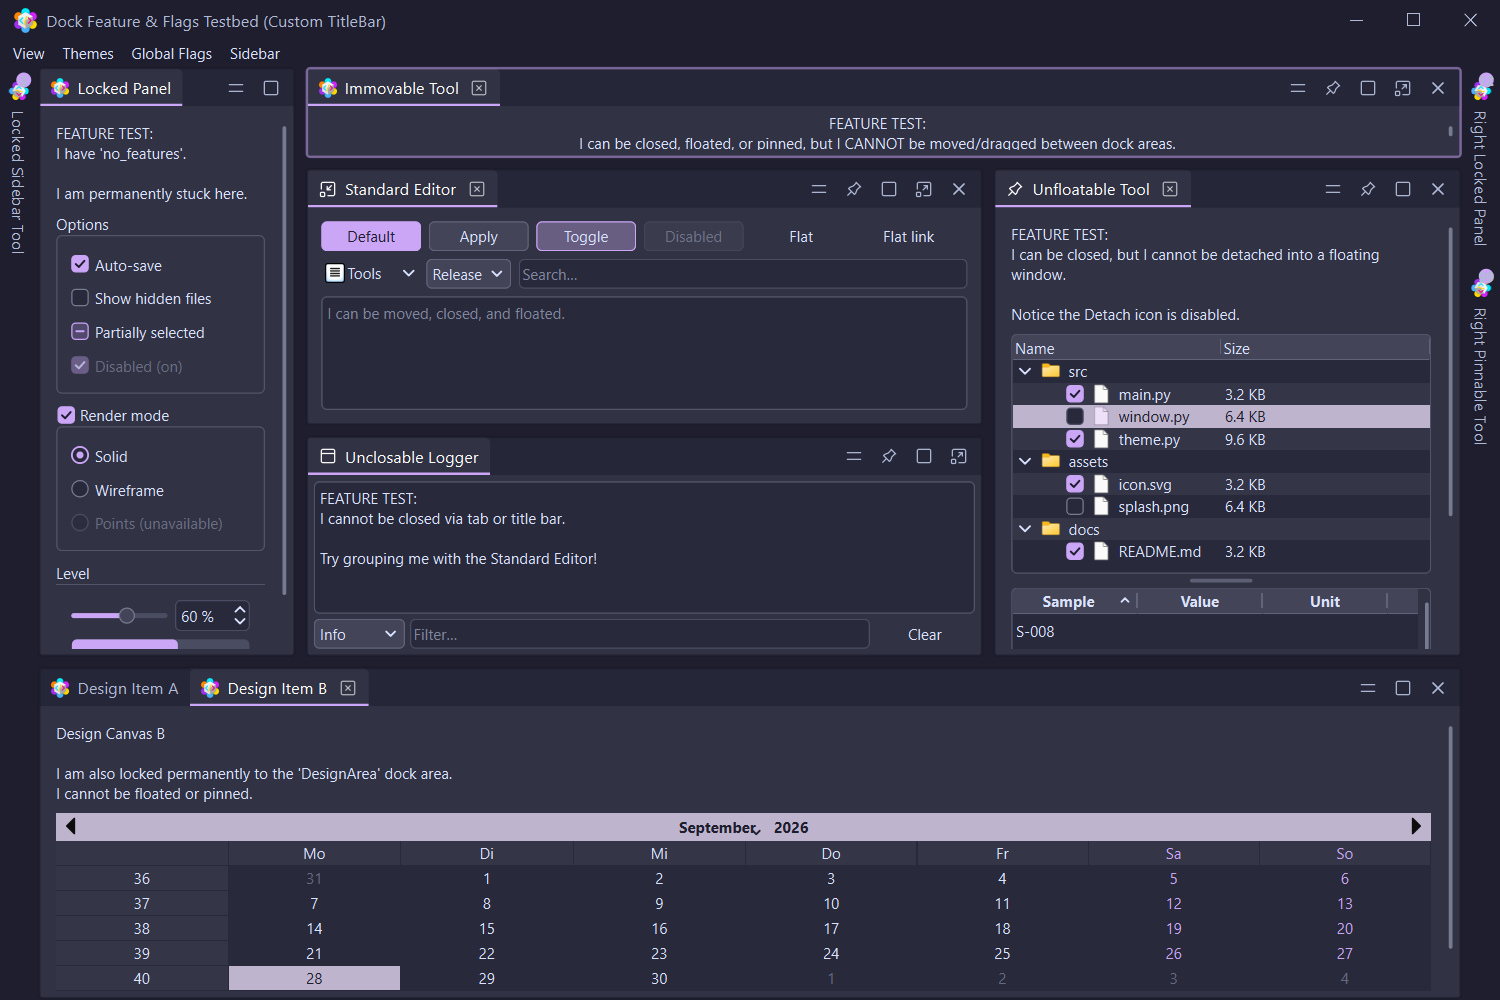
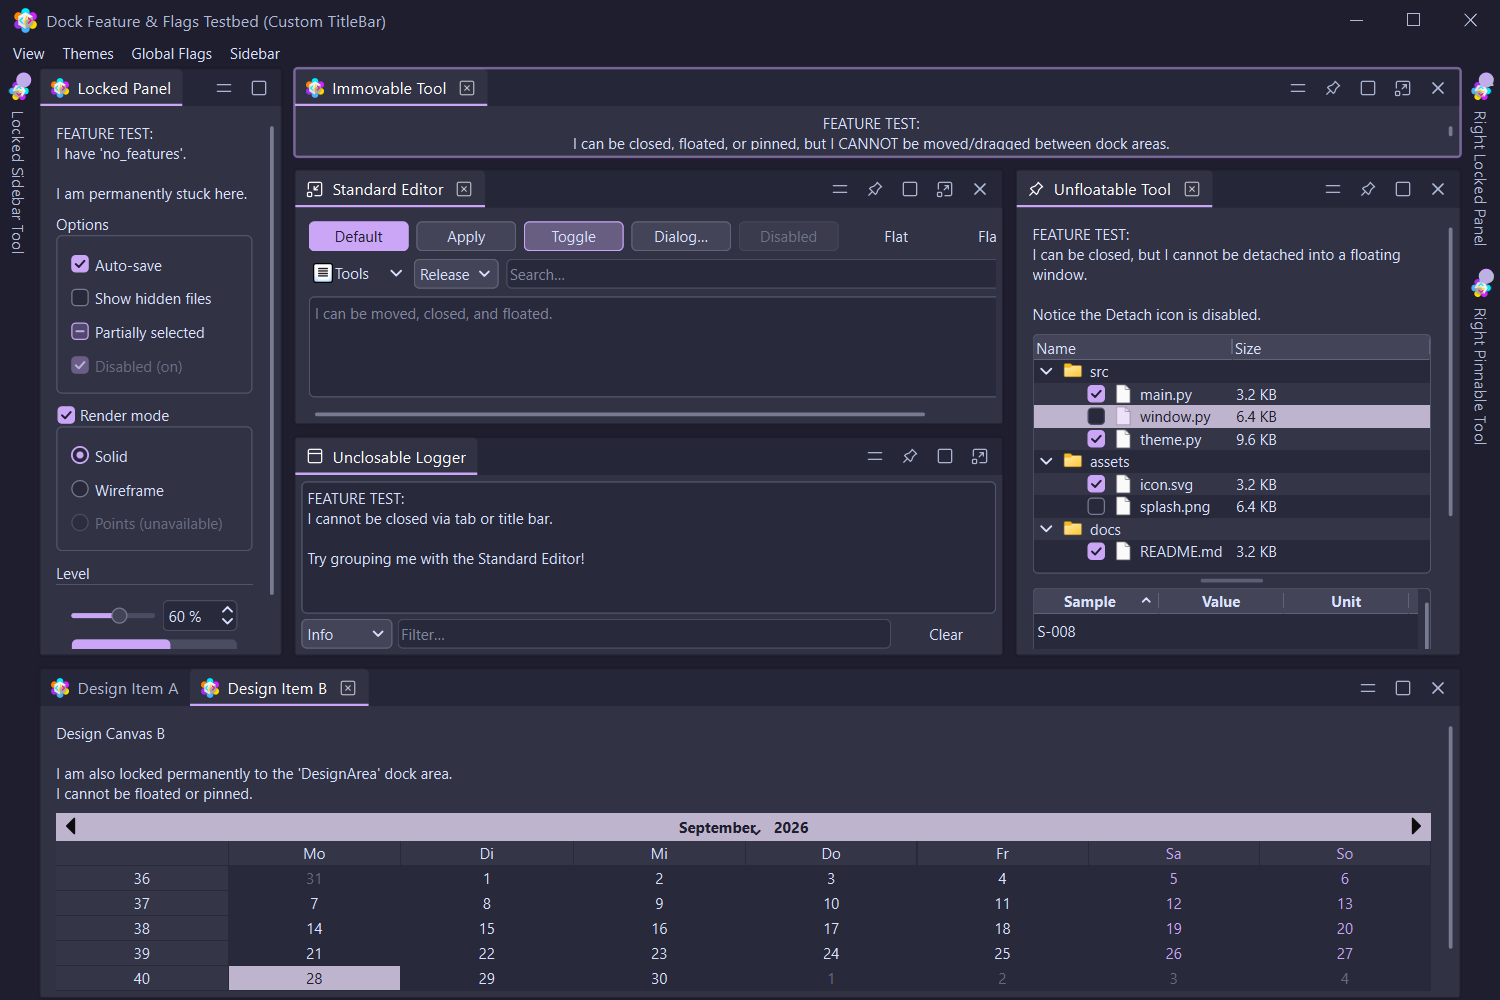
chore(release): 0.9.0
Dialog plan D4: docs/theming_and_geometry.md §14 "Title Bars",
QUICK_REFERENCE "Themed Dialogs", README feature line,
screenshot_themes.py captures dialog_<theme>.png, lace.dialogs
exports StandardButton. README grid retaken with the demo's
"Dialog…" button. Plan marked done.

diff --git a/dev_smoke/screenshot_themes.py b/dev_smoke/screenshot_themes.py
@@ -10,6 +10,7 @@ Special states (screen grabs show real desktop layering/shadows):
   composite_<theme>.png - floating window in FRONT of the main window
   sidebar_<theme>.png   - right sidebar expanded (a widget pinned to it)
   hover_<theme>.png     - a dock area actively hovered (drop overlay + preview)
+  dialog_<theme>.png    - a lace.dialogs message box over the main window
 """
 import sys, os, time, random, logging, argparse
 sys.path.insert(0, os.path.dirname(os.path.dirname(os.path.abspath(__file__))))
@@ -46,6 +47,7 @@ THEMES = theme_sets.resolve(args.themes)
 COMPOSITE_THEMES = ["cyberpunk_neon", "kilim_light_neo"]
 SIDEBAR_THEMES = ["kilim_dark", "slate_amber"]
 HOVER_THEMES = ["cyberpunk_neon", "kilim_midnight"]
+DIALOG_THEMES = ["cyberpunk_neon", "light"]
 
 OUT = args.out or os.path.join(
     os.path.dirname(os.path.dirname(os.path.abspath(__file__))), "screenshots")
@@ -199,6 +201,27 @@ for theme in HOVER_THEMES:
     settle(400)
     save(screen_grab([win]), f"hover_{theme}.png")
     overlay.hide_overlay()
+    app.processEvents()
+    settle(200)
+
+# ═══ Part E: a lace.dialogs message box over the main window ═════════
+from lace import dialogs
+
+for theme in DIALOG_THEMES:
+    print(f"[dialog] {theme}", flush=True)
+    set_theme(theme)
+
+    def grab_dialog(theme=theme):
+        settle(500)
+        save(screen_grab([win]), f"dialog_{theme}.png")
+        QApplication.activeModalWidget().reject()
+
+    QTimer.singleShot(0, grab_dialog)
+    dialogs.question(
+        win, "Close project",
+        "Save changes to <b>layout.json</b> before closing?",
+        dialogs.StandardButton.Save | dialogs.StandardButton.Discard
+        | dialogs.StandardButton.Cancel)
     app.processEvents()
     settle(200)
 

diff --git a/lace/dialogs.py b/lace/dialogs.py
@@ -47,6 +47,8 @@ from PySide6.QtWidgets import (QApplication, QColorDialog, QDialog,
 
 _frameless_default = True
 
+#: ``QMessageBox.StandardButton``, so callers can compare results without
+#: importing it: ``dialogs.question(...) == dialogs.StandardButton.Yes``.
 StandardButton = QMessageBox.StandardButton
 _Buttons = Union[QMessageBox.StandardButton, QDialogButtonBox.StandardButton, int]
 
@@ -536,6 +538,7 @@ def get_existing_directory(parent=None, caption: str = "", dir: str = "",
 
 __all__ = [
     "MESSAGE_ICONS",
+    "StandardButton",
     "about",
     "critical",
     "default_frameless",

diff --git a/lace/__init__.py b/lace/__init__.py
@@ -14,7 +14,7 @@ Public API is imported explicitly at the top level for discoverability
 and IDE/mypy compatibility.
 """
 
-__version__ = "0.8.5"
+__version__ = "0.9.0"
 
 # ---------------------------------------------------------------------------
 # Core Classes

diff --git a/docs/theming_and_geometry.md b/docs/theming_and_geometry.md
@@ -718,3 +718,77 @@ corner radius are `CORE`'s.
 |---|---|---|---|
 | `frame_color`, `overlay_color` | *derived* | — | drop-area preview outline and fill |
 | `background_color`, `arrow_color`, `shadow_color` | *derived* | — | drop-target cross buttons, their arrows and shadow |
+
+
+---
+
+## 14. Title Bars
+
+Every window an app shows can carry the theme's title bar. There are two
+kinds of title bar, and both read their colours from one function,
+`lace.title_bar_colors()`, so they cannot drift apart.
+
+### The tokens
+
+| Part | Token | Used by |
+|---|---|---|
+| Background | `SIDEBAR.bg_color`, else `TITLE_BAR.bg_normal` | both |
+| Title text | `TITLE_BAR.text_normal` | both |
+| Inactive title text | the title text at 60 % over the background (`INACTIVE_TEXT_ALPHA`) | native frame |
+| Outline | `CORE.border_color` when `CORE.border_width` > 0 and it isn't transparent; otherwise the system's own | native frame |
+| Buttons | `TITLE_BAR.button_color`, `button_hover_bg`, `button_disable_clr`, `button_size`, `button_icon_size`, `button_corner_radius` | custom bar |
+| Font | `TITLE_BAR.font_family`, `font_size`, `font_weight`, `font_italic`, `font_underline` | custom bar |
+
+The custom bar's close button keeps the system red on hover.
+
+### Custom title bars (frameless windows)
+
+`FramelessLaceMainWindow`, the frameless floating containers and
+`FramelessLaceDialog` draw their own bar (`LaceStandardTitleBar`), styled by a
+`FramelessTitleBarStyler` that follows theme switches live.
+
+For dialogs, use `FramelessLaceDialog` directly or the `lace.dialogs` helpers,
+which mirror Qt's static dialog functions:
+
+```python
+from lace import dialogs
+from lace.frameless_dialog import FramelessLaceDialog
+
+if dialogs.question(self, "Close", "Discard changes?") == dialogs.StandardButton.Yes:
+    ...
+name, ok = dialogs.get_text(self, "Rename", "Name:", text="Layer 3")
+
+dlg = FramelessLaceDialog(self, buttons="close", resizable=False)
+dlg.setWindowTitle("New layer")
+dlg.contentLayout().addWidget(my_form)   # don't call dlg.setLayout()
+dlg.exec()
+```
+
+### System title bars (native frames)
+
+Windows that keep the OS frame (`QMessageBox`, `QInputDialog`, your own
+`QDialog`s, tool windows, the native floating container) get the theme's
+colours through the window manager. `DockManager` turns this on for the whole
+application (`install_native_frame_theme()` does it without one). It reapplies
+on every theme switch, and dims the title text of inactive windows.
+
+| Platform | System title bar |
+|---|---|
+| Windows 11 | caption colour, title text (dimmed while inactive) and outline from the theme |
+| Windows 10 | the theme's light or dark mode only; the caption stays black or white |
+| macOS, Linux | the window manager's frame, unchanged |
+
+### What stays out of reach
+
+The OS file and print dialogs (`QFileDialog` in native mode, the default on
+Windows and macOS) are OS windows with no Qt widget behind them. They follow
+the system's light/dark setting, not the theme. To theme a file dialog, use Qt's
+own: `dialogs.get_open_file_name(..., native=False)`.
+
+### Opting out
+
+| To | Use |
+|---|---|
+| leave every system frame alone | `DockManager(window, native_frames=False)` |
+| leave one window's system frame alone | `window.setProperty("laceNativeFrame", False)` |
+| make the `lace.dialogs` helpers open plain Qt dialogs | `dialogs.set_default_frameless(False)` |

diff --git a/docs/QUICK_REFERENCE.md b/docs/QUICK_REFERENCE.md
@@ -2,7 +2,7 @@
 
 **Advanced PySide6 Docking System** — your 5-minute guide to getting started.
 
-**Version:** 0.8.5
+**Version:** 0.9.0
 
 ---
 
@@ -721,6 +721,48 @@ a manual escape hatch. See `docs/frameless-webengine-findings.md`.
 # (DockFlags.chromeless_float hides the custom title bar entirely)
 dock_manager.config_flags |= DockFlags.chromeless_float
 ```
+
+### Themed Dialogs
+
+`lace.dialogs` mirrors Qt's static dialog functions: same arguments, same
+return values, but each opens a frameless dialog with the theme's title bar.
+
+```python
+from lace import dialogs
+
+dialogs.information(self, "Saved", "Layout saved.")
+if dialogs.question(self, "Close", "Discard changes?") == dialogs.StandardButton.Yes:
+    ...
+name, ok = dialogs.get_text(self, "Rename", "Name:", text="Layer 3")
+color = dialogs.get_color(QColor("red"), self, "Accent")       # invalid on cancel
+path, _ = dialogs.get_open_file_name(self, "Open", "", "JSON (*.json)")  # OS dialog
+path, _ = dialogs.get_open_file_name(self, "Open", "", "JSON (*.json)", native=False)
+```
+
+| Helper | Qt counterpart | Returns |
+|---|---|---|
+| `information`, `question`, `warning`, `critical`, `message(..., icon=)` | `QMessageBox` statics | `QMessageBox.StandardButton` |
+| `about` | `QMessageBox.about` | `None` |
+| `get_text`, `get_multi_line_text`, `get_item`, `get_int`, `get_double` | `QInputDialog` statics | `(value, ok)` |
+| `get_color(initial, parent, title, options)` | `QColorDialog.getColor` | `QColor` (invalid on cancel) |
+| `get_open_file_name`, `get_open_file_names`, `get_save_file_name`, `get_existing_directory` | `QFileDialog` statics; `native=False` for the themed Qt dialog | as Qt |
+
+For your own dialog, subclass or use `FramelessLaceDialog`:
+
+```python
+from lace.frameless_dialog import FramelessLaceDialog
+
+dlg = FramelessLaceDialog(self, buttons="close", resizable=False)  # or "min_close", "all"
+dlg.setWindowTitle("New layer")
+dlg.contentLayout().addWidget(my_form)
+if dlg.exec() == FramelessLaceDialog.DialogCode.Accepted:
+    ...
+```
+
+`dialogs.set_default_frameless(False)` sends every helper back to plain Qt.
+Dialogs that keep the system frame still get the theme's title-bar colours on
+Windows 11 (light/dark only on Windows 10); see `docs/theming_and_geometry.md`
+§14.
 
 ---
 

diff --git a/README.md b/README.md
@@ -2,7 +2,7 @@
 
 **Advanced docking system for PySide6** — a feature-rich, themeable widget layout framework for building professional Qt desktop applications in Python.
 
-**Version:** 0.8.5
+**Version:** 0.9.0
 
 [![PyPI](https://img.shields.io/pypi/v/lace-dock.svg)](https://pypi.org/project/lace-dock/)
 [![License](https://img.shields.io/pypi/l/lace-dock.svg)](https://pypi.org/project/lace-dock/)
@@ -82,6 +82,7 @@
 - **Frameless windows** — Custom (PySideSix-Frameless-Window) title bars for the main window and floating containers with a synchronous double-click-to-maximize, DWM shadow, and resize borders; GL children (`QWebEngineView`, `QOpenGLWidget`) auto-heal the native chrome via `WinIdChange` (`ensure_frameless_chrome()`)
 - **Configurable custom title bars** — Set different title-bar classes for the main window and floating dock containers (`title_bar=` constructor arg, live `DockManager.main_title_bar` / `floating_title_bar`); embed menus, search fields, or any widget directly in the frameless chrome — `LaceStandardTitleBar` already vetoes drags from interactive children, paints the theme background, and anchors inserts, so subclasses only add widgets
 - **Chromeless floating windows** — Optional bare floating surfaces without any title bar
+- **Themed dialogs** — `FramelessLaceDialog` and the `lace.dialogs` helpers (message boxes, input, colour and file dialogs, same arguments and results as Qt's) carry the main window's title bar; dialogs that keep the system frame get the theme's caption colour on Windows 11 and its light/dark mode on Windows 10
 
 ---
 
@@ -188,7 +189,7 @@ for the full API.
 
 ## Screenshots
 
-![Lace frameless main window across 12 themes](https://raw.githubusercontent.com/opticsWolf/Lace/main/screenshots/main_themes_grid.png?v=0.8.5)
+![Lace frameless main window across 12 themes](https://raw.githubusercontent.com/opticsWolf/Lace/main/screenshots/main_themes_grid.png?v=0.9.0)
 
 *The frameless main window (custom title bar, dock panels, splitters) across 12 built-in themes.*
 

diff --git a/CHANGELOG.md b/CHANGELOG.md
@@ -5,7 +5,7 @@ All notable changes to Lace are recorded here.  Versions follow
 the public API happen in minor/patch releases rather than being deprecated
 through a cycle.
 
-## [Unreleased]
+## [0.9.0] — 2026-10-01
 
 ### Added
 
@@ -22,6 +22,12 @@ through a cycle.
 - `FramelessTitleBarStyler.dispose()`: unregisters the styler from the style manager. It runs
   when the styler's parent is destroyed, so closed dialogs and floats no longer leave a
   subscriber behind.
+- The demos' Standard Editor has a "Dialog…" button opening `demos/demo_dialog.py`'s
+  `NewLayerDialog`, a `FramelessLaceDialog` subclass with its own form.
+- `docs/theming_and_geometry.md` §14 "Title Bars": the title-bar tokens, custom and system
+  title bars, a platform table and the opt-outs. `docs/QUICK_REFERENCE.md` lists the
+  dialog helpers.
+- `screenshot_themes.py` captures `dialog_<theme>.png`, a message box over the main window.
 
 ### Changed
 
@@ -30,6 +36,7 @@ through a cycle.
   now logged at debug level instead of raising, as on the floating window.
 - `FramelessLaceMainWindow._register_titlebar_theme()` called twice disposes the first styler.
 - Theme Studio's colour picker and the demos' message boxes and file dialogs use `lace.dialogs`.
+- The README grid is retaken with the demo's new "Dialog…" button.
 
 ## [0.8.5] — 2026-10-01
 

diff --git a/docs/DIALOG_TITLEBAR_PLAN.md b/docs/DIALOG_TITLEBAR_PLAN.md
@@ -1,9 +1,9 @@
 # Dialog title bars: plan
 
-**Status:** D1 released in 0.8.5 (`lace/title_bar_colors.py`, `lace/native_frame.py`,
-`tests/test_native_frame.py`); D2 and D3 built on `dev_dialog` (`lace/frameless_dialog.py`,
-`lace/dialogs.py`, `tests/test_frameless_dialog.py`, `tests/test_dialogs.py`,
-`dev_smoke/smoke_dialogs.py`); D4 open
+**Status:** done. D1 released in 0.8.5 (`lace/title_bar_colors.py`, `lace/native_frame.py`);
+D2–D4 in 0.9.0 (`lace/frameless_dialog.py`, `lace/dialogs.py`, `dev_smoke/smoke_dialogs.py`,
+`docs/theming_and_geometry.md` §14). Not checked: Windows 10, and the colour dialog's
+"Pick Screen Color" while embedded
 **Target:** 0.8.x / 0.9
 **Scope:** make every window an app shows (dialogs, message boxes, tool windows, Theme Studio)
 match the themed custom title bar of `FramelessLaceMainWindow`.

diff --git a/docs/ARCHITECTURE.md b/docs/ARCHITECTURE.md
@@ -2,7 +2,7 @@
 
 **Advanced Docking System for PySide6** — a comprehensive, themeable, multi-window docking framework built on top of PySide6 (Qt6 via Python).
 
-**Version:** 0.8.5
+**Version:** 0.9.0
 
 ---
 
